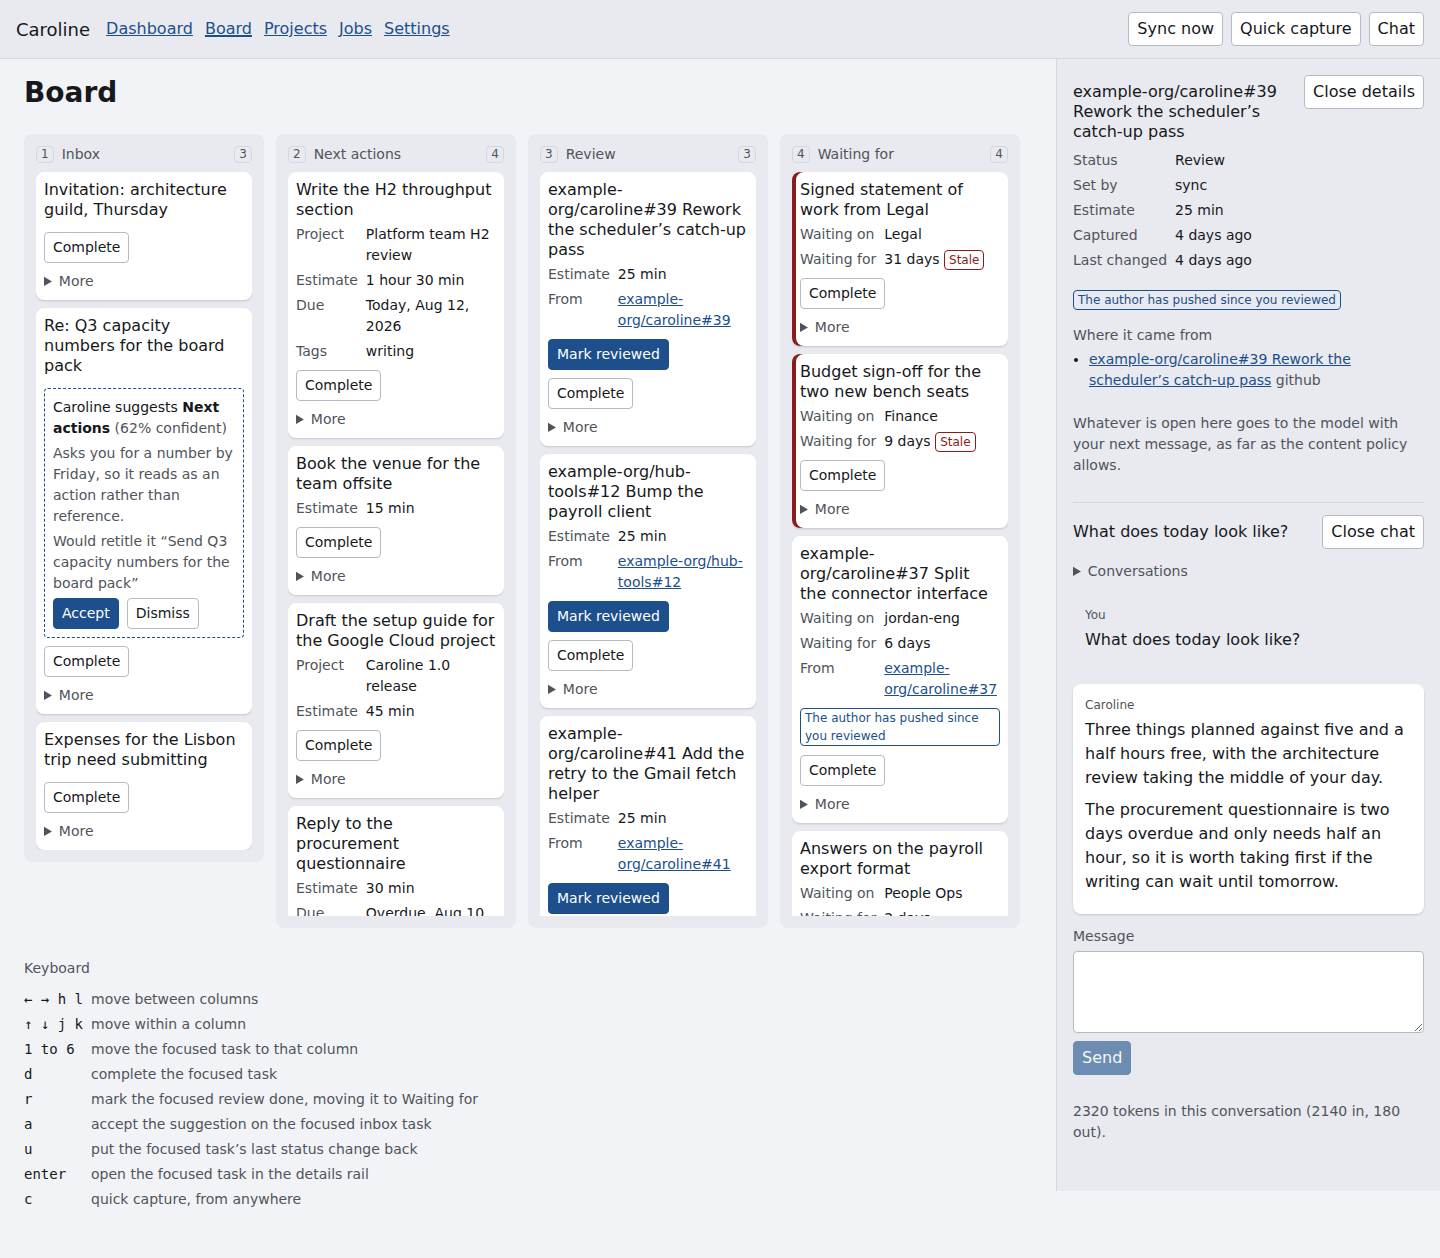
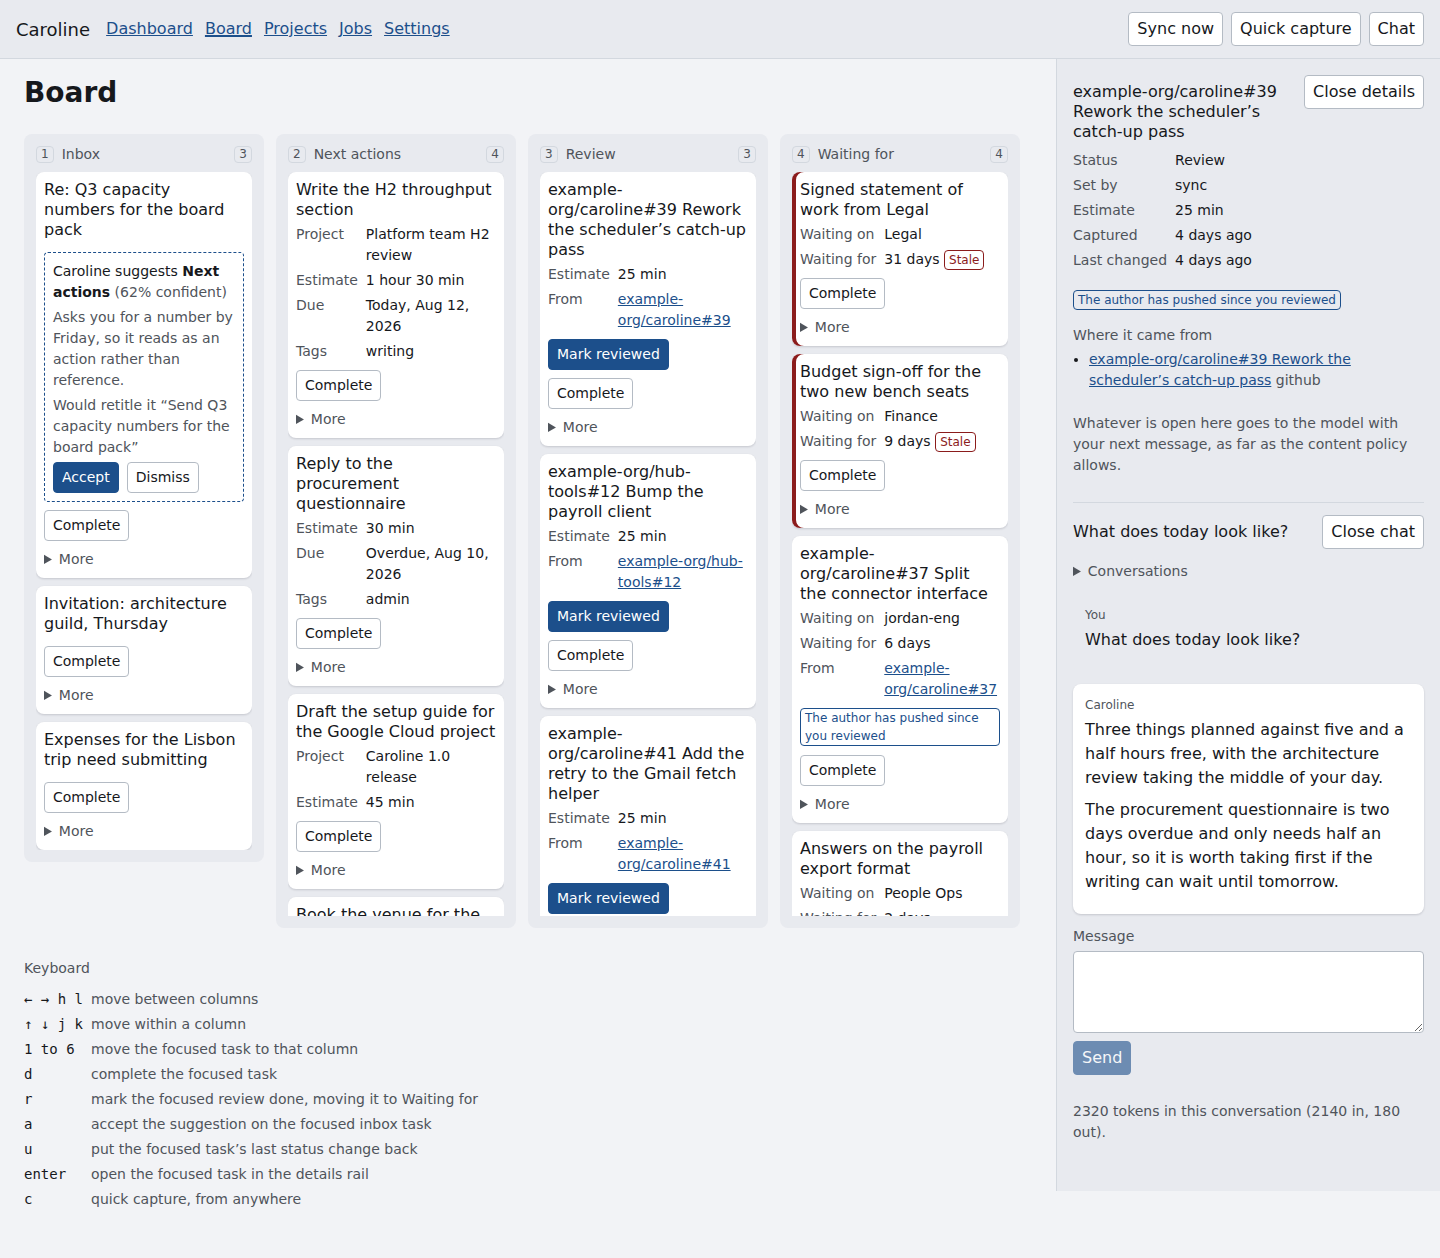
Three findings: a card named by position, a reason chosen by rank, half a fix
**The unsure inbox card was named by a position nothing kept.** The sentence said
"the third inbox card" and the picture directly above it had the suggestion box on
the second, with "Expenses" third carrying no proposal at all. Renumbering would
not have fixed it: `createTask` sets `sortOrder: 0` for everything and the seed gave
every inbox task the same `createdAt`, so `order by sort_order, created_at, id` was
decided by a random UUID. Six reseeds produced six different orders, and nothing can
read a PNG, so the suite stayed green whichever way it fell. The card is named by its
title now, and the seed gives each task a distinct `createdAt` in the order it lists
them: six reseeds, one order. That second half is what stops it recurring, and it is
also why the board and the rail now agree about the Next actions column, which the
two committed pictures of the same day did not.

**The planner's reasons were chosen by rank rather than by task.** Entry three is
always "Draft the setup guide for the Google Cloud project", seeded with no due date,
and the rationale said "Overdue since Monday" about it because it was not entry one.
So the dashboard published a reason contradicting the same task's card eighty lines
earlier in the same document, in a bullet whose subject is the planner giving a
sentence each saying why. The rationale reads `dueAt` now, and the weekday comes from
the date too, so neither can drift from it.
[…]

Changed region(s): [[0.1875, 0.341, 0.3438, 0.744], [0.0312, 0.124, 0.1562, 0.527]]

diff --git a/tools/docs/content-policy-examples.ts b/tools/docs/content-policy-examples.ts
@@ -4,8 +4,9 @@
  * A documented payload that has drifted from the code is worse than no example, because it is a
  * promise about where somebody's mail goes. So the document does not describe these payloads: it
  * carries the output of this module, `npm run docs:examples` writes it there, and
- * `test/docs/content-policy-examples.test.ts` fails when the file and this module disagree. The
- * generated region is fenced off with markers, so everything around it is still written by hand.
+ * `test/docs/content-policy-examples.test.ts` fails when the file and this module disagree. The same
+ * goes for the block of privacy defaults above them. Each generated region is fenced off with markers,
+ * so everything around them is still written by hand.
  *
  * Spec 09, criterion 15.
  */
@@ -20,12 +21,22 @@ import {
   type ClassificationItem,
 } from '../../src/llm/prompts/classification.js'
 
-/** Where the generated region starts and ends. The prose outside them is nobody's output. */
-export const EXAMPLES_BEGIN =
-  '<!-- generated by tools/docs/content-policy-examples.ts: npm run docs:examples -->'
-export const EXAMPLES_END = '<!-- end of the generated payloads -->'
-
 const DOCUMENT = 'docs/content-policy.md'
+
+/**
+ * Where each generated region starts and ends. The prose outside them is nobody's output.
+ *
+ * Two regions, because there were two copies of the same numbers. The payload blocks read
+ * `snippetChars` out of the schema while the settings block above them spelled the same default out by
+ * hand, outside the markers and outside the test, so lowering the schema's default left the document
+ * saying 300 in one place and 250 ten lines below it with the suite green. Both are generated now.
+ */
+const DEFAULTS_BEGIN =
+  '<!-- the defaults, generated by tools/docs/content-policy-examples.ts: npm run docs:examples -->'
+const DEFAULTS_END = '<!-- end of the generated defaults -->'
+const EXAMPLES_BEGIN =
+  '<!-- the payloads, generated by tools/docs/content-policy-examples.ts: npm run docs:examples -->'
+const EXAMPLES_END = '<!-- end of the generated payloads -->'
 
 /**
  * One inbox item, invented, and the only thing here that is not the real code's doing.
@@ -62,12 +73,52 @@ const item: ClassificationItem = {
 const CALLED_AT = Date.parse('2026-08-12T09:00:00Z')
 
 /**
- * The snippet cap a reader has not changed, read out of the schema rather than written again here. It
- * appears in the document's prose, in each block's note and in the length of the `snippet` payload, so a
- * second copy of it is a number that can go quietly false: both sides of the drift comparison would read
- * the copy, and the test would stay green while three statements in the document became untrue.
+ * The privacy settings a reader has not changed, read out of the schema rather than written again
+ * here. They appear in the settings block, in each payload block's note and in the length of the
+ * `snippet` payload, so a second copy of any of them is a number that can go quietly false: both
+ * sides of a drift comparison would read the copy, and the test would stay green while several
+ * statements in the document became untrue.
  */
-const SNIPPET_CHARS = fileConfigSchema.parse({}).privacy.snippetChars
+const privacyDefaults = fileConfigSchema.parse({}).privacy
+const SNIPPET_CHARS = privacyDefaults.snippetChars
+
+/**
+ * Which of the settings takes a trailing comment, and what it says. The two level fields are the ones
+ * whose value is a choice out of a list, and the list is the domain's rather than a repetition of it,
+ * so a level added to `contentLevels` shows up here without anybody editing the document.
+ */
+const settingComments: Readonly<Partial<Record<keyof typeof privacyDefaults, string>>> = {
+  llmContent: contentLevels.join(' | '),
+  storeContent: contentLevels.join(' | '),
+}
+
+/** The settings block: the defaults, as `caroline.config.json` would spell them. */
+export function defaultsMarkdown(): string {
+  const keys = Object.keys(privacyDefaults) as (keyof typeof privacyDefaults)[]
+  const settings = keys.map((key, index) => ({
+    text: `    ${JSON.stringify(key)}: ${JSON.stringify(privacyDefaults[key])}${index === keys.length - 1 ? '' : ','}`,
+    comment: settingComments[key],
+  }))
+
+  // The comments line up, so the column is a column. Two spaces clear of the longest commented line.
+  const width =
+    Math.max(...settings.filter((setting) => setting.comment !== undefined).map(({ text }) => text.length)) + 2
+  const lines = settings.map(({ text, comment }) =>
+    comment === undefined ? text : `${text.padEnd(width)}// ${comment}`,
+  )
+
+  return `${DEFAULTS_BEGIN}
+
+\`\`\`jsonc
+{
+  "privacy": {
+${lines.join('\n')}
+  }
+}
+\`\`\`
+
+${DEFAULTS_END}`
+}
 
 /**
  * The user turn of a classification call at each level, as the provider receives it: the payload
@@ -107,40 +158,71 @@ ${sent}
   return `${EXAMPLES_BEGIN}\n\n${blocks.join('\n\n')}\n\n${EXAMPLES_END}`
 }
 
-/** Where the generated region sits in the document, or the complaint that it does not. */
-function bounds(markdown: string): { readonly start: number; readonly end: number } {
-  const start = markdown.indexOf(EXAMPLES_BEGIN)
-  const end = markdown.indexOf(EXAMPLES_END)
+/**
+ * A region of the document this module owns: the markers that fence it off, and what belongs between
+ * them. The test walks this list, so a region added here is checked for drift without being named
+ * twice.
+ */
+export interface GeneratedRegion {
+  /** What it is, for the failure message. */
+  readonly name: string
+  readonly begin: string
+  readonly end: string
+  /** The region as it should read, markers included. */
+  readonly markdown: () => string
+}
+
+export const regions: readonly GeneratedRegion[] = [
+  {
+    name: 'the privacy defaults',
+    begin: DEFAULTS_BEGIN,
+    end: DEFAULTS_END,
+    markdown: defaultsMarkdown,
+  },
+  { name: 'the payloads', begin: EXAMPLES_BEGIN, end: EXAMPLES_END, markdown: examplesMarkdown },
+]
+
+/** Where a region sits in the document, or the complaint that it does not. */
+function bounds(
+  markdown: string,
+  region: GeneratedRegion,
+): { readonly start: number; readonly end: number } {
+  const start = markdown.indexOf(region.begin)
+  const end = markdown.indexOf(region.end)
   if (start === -1 || end === -1 || end < start) {
     throw new Error(
-      `${DOCUMENT} has no generated region: it needs the ${EXAMPLES_BEGIN} and ${EXAMPLES_END} markers, in that order`,
+      `${DOCUMENT} has no generated region for ${region.name}: it needs the ${region.begin} and ${region.end} markers, in that order`,
     )
   }
 
-  return { start, end: end + EXAMPLES_END.length }
-}
-
-/** The document with its generated region replaced. Everything outside the markers is untouched. */
-export function documentWith(markdown: string, region: string): string {
-  const { start, end } = bounds(markdown)
-
-  return `${markdown.slice(0, start)}${region}${markdown.slice(end)}`
+  return { start, end: end + region.end.length }
 }
 
 /** The region as the document holds it, for the test that the two agree. */
-export function regionOf(markdown: string): string {
-  const { start, end } = bounds(markdown)
+export function regionOf(markdown: string, region: GeneratedRegion): string {
+  const { start, end } = bounds(markdown, region)
 
   return markdown.slice(start, end)
+}
+
+/** The document with every generated region replaced. Everything outside the markers is untouched. */
+export function documentWith(markdown: string): string {
+  return regions.reduce((document, region) => {
+    const { start, end } = bounds(document, region)
+
+    return `${document.slice(0, start)}${region.markdown()}${document.slice(end)}`
+  }, markdown)
 }
 
 // Run as a script rather than imported: rewrite the document. The test imports this module and only
 // compares, so the rewrite is behind the entry-point check.
 if (process.argv[1] !== undefined && fileURLToPath(import.meta.url) === resolve(process.argv[1])) {
   const markdown = readFileSync(DOCUMENT, 'utf8')
-  const next = documentWith(markdown, examplesMarkdown())
+  const next = documentWith(markdown)
   writeFileSync(DOCUMENT, next, 'utf8')
   process.stdout.write(
-    next === markdown ? `${DOCUMENT} was already up to date\n` : `Rewrote the payloads in ${DOCUMENT}\n`,
+    next === markdown
+      ? `${DOCUMENT} was already up to date\n`
+      : `Rewrote the generated regions in ${DOCUMENT}\n`,
   )
 }

diff --git a/tools/demo/seed.ts b/tools/demo/seed.ts
@@ -147,8 +147,17 @@ const seeds: Seed[] = [
   { title: 'GitHub token scopes Caroline needs', status: 'reference', project: release.id },
 ]
 
-const created = seeds.map((seed) => {
-  const at = seed.setAt ?? NOW - 3 * DAY
+/**
+ * A distinct creation time each, in the order this file lists them.
+ *
+ * A column is read back `order by sort_order, created_at, id`, and `createTask` gives every task the
+ * same `sortOrder`. One shared `createdAt` for the whole list therefore left the tiebreak to a random
+ * UUID: every reseed dealt each column in a different order, and a picture of it was one shuffle out
+ * of many, which is not something a document can say anything positional about. A minute apart is
+ * enough to decide the order and small enough that the cards still read as three days old.
+ */
+const created = seeds.map((seed, index) => {
+  const at = seed.setAt ?? NOW - 3 * DAY + index * MINUTE
   const task = createTask(
     database,
     {
@@ -341,6 +350,26 @@ for (const [index, event] of events.entries()) {
 
 const planned = created.filter((task) => task.status === 'next_action')
 
+/**
+ * Why the planner put an entry where it did, read off the task rather than off its rank.
+ *
+ * By rank it said "Overdue since Monday" about whatever happened to be second or third, and the
+ * third entry here has no due date at all. Both the plan and the same task's card are published, in
+ * one document, so a reason that contradicts the card reads as the planner inventing reasons. The
+ * weekday comes from the date as well, so it cannot drift from it either.
+ */
+function rationaleFor(task: { readonly dueAt: number | null }): string {
+  if (task.dueAt === null) return 'Nothing forcing the date, but the release is waiting on it'
+  if (task.dueAt < today(0)) {
+    const weekday = new Date(task.dueAt).toLocaleDateString('en-GB', { weekday: 'long' })
+
+    return `Overdue since ${weekday}`
+  }
+  if (task.dueAt < today(0) + DAY) return 'Due today, and the longest single block you have'
+
+  return 'Due later this week, so it is worth starting before the deadline week'
+}
+
 recordDailyPlan(database, {
   planDate,
   generatedAt: today(7, 5),
@@ -359,8 +388,7 @@ recordDailyPlan(database, {
     taskId: task.id,
     title: task.title,
     rank: index + 1,
-    rationale:
-      index === 0 ? 'Due today, and the longest single block you have' : 'Overdue since Monday',
+    rationale: rationaleFor(task),
     estimateMinutes: task.estimateMinutes,
   })),
   overflow: planned.slice(3).map((task, index) => ({

diff --git a/test/docs/content-policy-examples.test.ts b/test/docs/content-policy-examples.test.ts
@@ -10,22 +10,26 @@
 import { readFileSync } from 'node:fs'
 import { join } from 'node:path'
 import { describe, expect, it } from 'vitest'
-import {
-  examplesMarkdown,
-  payloadExamples,
-  regionOf,
-} from '../../tools/docs/content-policy-examples.js'
+import { payloadExamples, regionOf, regions } from '../../tools/docs/content-policy-examples.js'
 import { contentLevels } from '../../src/domain/content.js'
 
 const document = readFileSync(join(process.cwd(), 'docs/content-policy.md'), 'utf8')
 
 describe('the documented payloads are what the content policy produces', () => {
-  it('carries exactly what the generator generates, so nothing has drifted', () => {
-    expect(
-      regionOf(document),
-      'docs/content-policy.md no longer matches the code that builds the payloads: run npm run docs:examples',
-    ).toBe(examplesMarkdown())
-  })
+  /**
+   * Every region, rather than the payloads alone. The settings block used to sit outside the markers
+   * with the snippet cap written into it by hand, so lowering the schema's default left the page
+   * quoting 300 in one region and 250 in the next with nothing failing. Whatever this module owns is
+   * compared, so adding a region does not mean remembering to add an assertion for it.
+   */
+  for (const region of regions) {
+    it(`carries exactly what the generator generates for ${region.name}, so nothing has drifted`, () => {
+      expect(
+        regionOf(document, region),
+        `docs/content-policy.md no longer matches the code behind ${region.name}: run npm run docs:examples`,
+      ).toBe(region.markdown())
+    })
+  }
 
   it('shows every level, in the order the document tabulates them', () => {
     expect(payloadExamples().map((example) => example.level)).toEqual([...contentLevels])

diff --git a/docs/content-policy.md b/docs/content-policy.md
@@ -13,6 +13,8 @@ spec is right and one of them is a defect.
 
 ## The two settings
 
+<!-- the defaults, generated by tools/docs/content-policy-examples.ts: npm run docs:examples -->
+
 ```jsonc
 {
   "privacy": {
@@ -24,6 +26,13 @@ spec is right and one of them is a defect.
   }
 }
 ```
+
+<!-- end of the generated defaults -->
+
+Those are the defaults, and the block is generated from the schema that declares them, by the same
+`tools/docs/content-policy-examples.ts` the payloads further down come from. Nobody maintains a second
+copy of these numbers, so lowering `snippetChars` in the schema cannot leave this page quoting the
+value it used to have.
 
 | Level | What it includes |
 | --- | --- |
@@ -77,7 +86,7 @@ sender here is a name rather than an address, because no page of the site may ca
 like one: in a real payload `from` and `participants` are addresses, and they go at `metadata` and
 above exactly as this name does.
 
-<!-- generated by tools/docs/content-policy-examples.ts: npm run docs:examples -->
+<!-- the payloads, generated by tools/docs/content-policy-examples.ts: npm run docs:examples -->
 
 ### `none`
 

diff --git a/docs/using.md b/docs/using.md
@@ -117,9 +117,9 @@ on how sure it is:
   its reasoning in a sentence or two, and a better title if it has one. **Accept** takes it, and the
   status becomes yours. **Dismiss** drops the suggestion and leaves the task where it is.
 
-The third inbox card in the board picture above is the unsure case: `Caroline suggests Next actions
-(62% confident)`, with the reasoning and a proposed retitle under it. `a` is **Accept** from the
-keyboard.
+`Re: Q3 capacity numbers for the board pack`, in the Inbox column of the board picture above, is the
+unsure case: `Caroline suggests Next actions (62% confident)`, with the reasoning and a proposed
+retitle under it. `a` is **Accept** from the keyboard.
 
 It never proposes done, and it never sets a due date. Completing something is a human act, and
 deadlines come from people rather than from a model.

diff --git a/docs/specs/09-config-and-security.md b/docs/specs/09-config-and-security.md
@@ -285,3 +285,5 @@ Two decisions about it:
     document and those functions disagree. Documentation of what leaves the machine is a promise about
     somebody's mail, so it is checked rather than reviewed: a documented payload that has drifted from
     the code is worse than no example. None of them carries an address or anything shaped like a key.
+    The same document's block of privacy defaults is generated from the schema that declares them and
+    checked the same way, so no default in it is a second copy anybody maintains.
